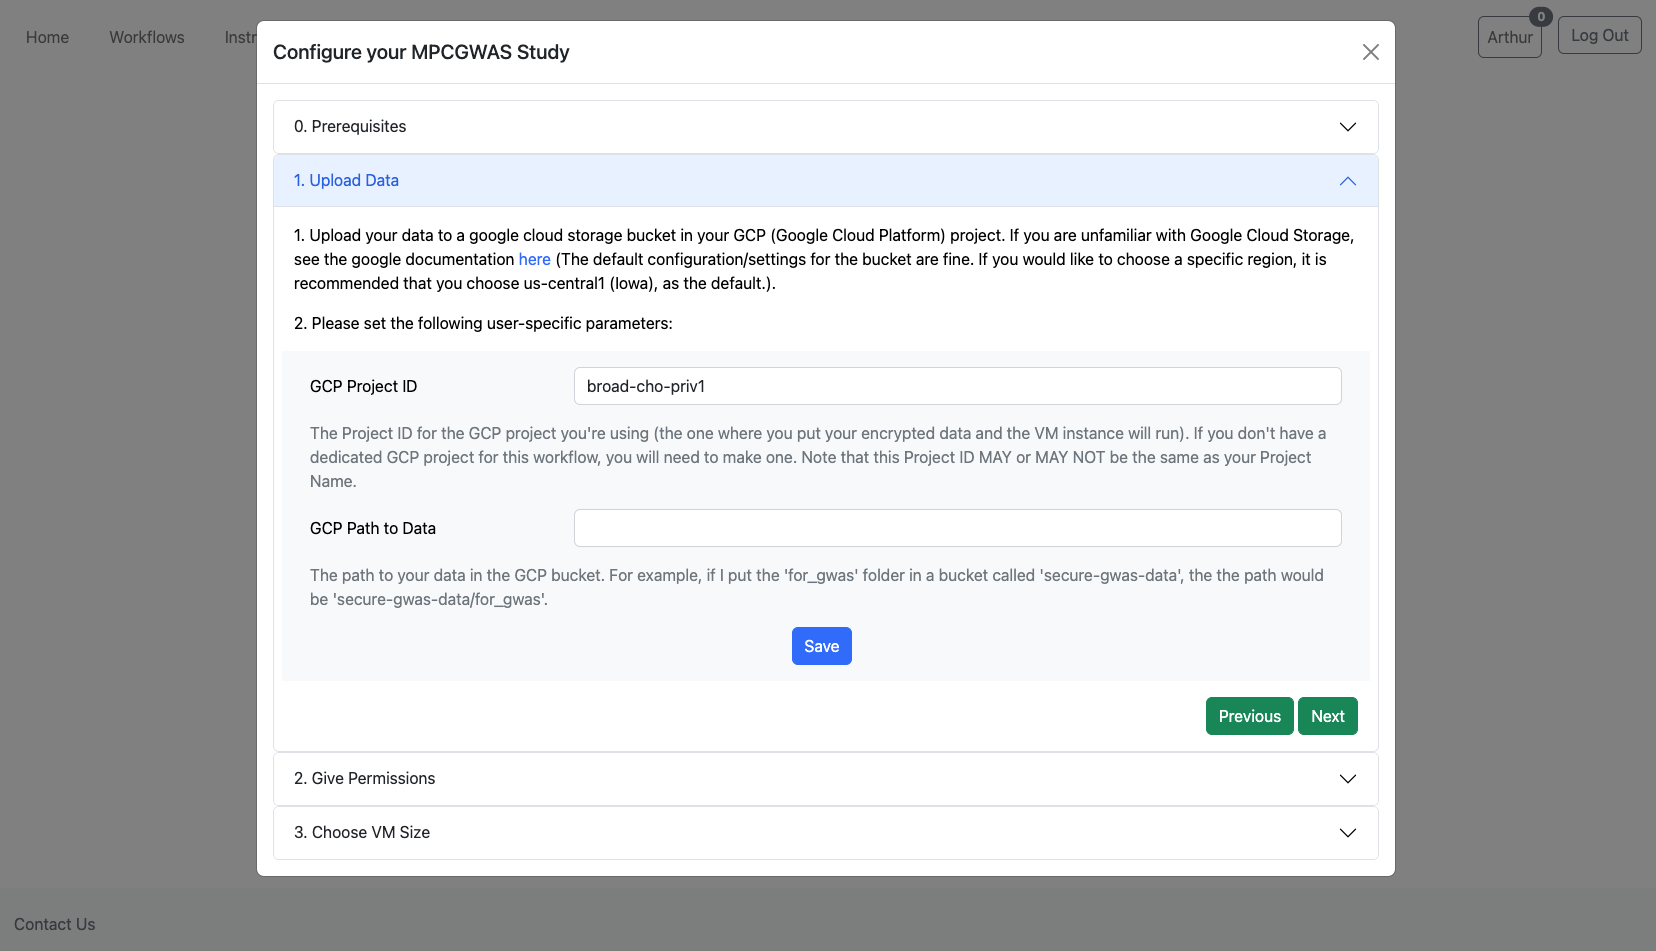
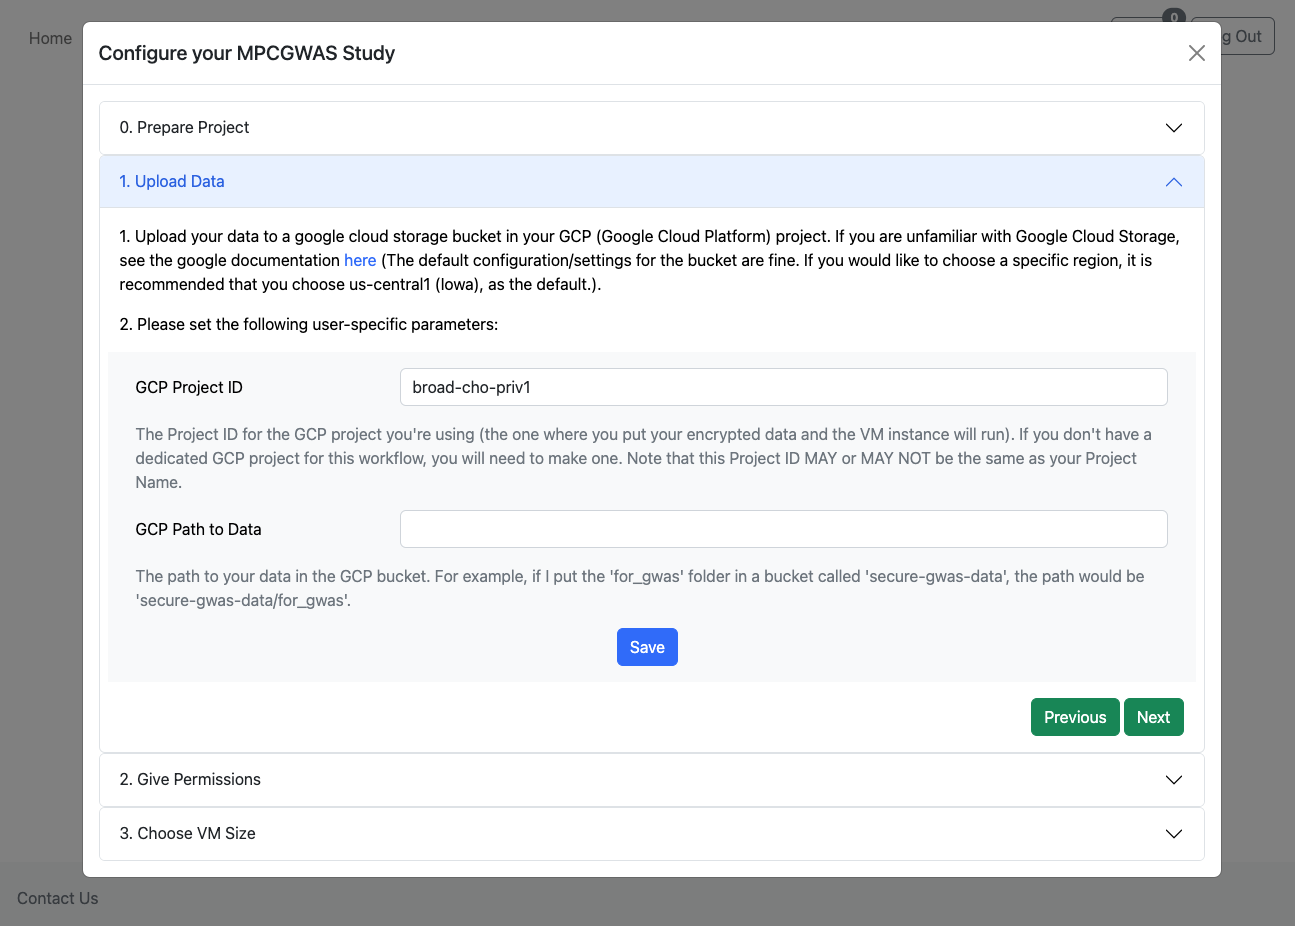
update tutorial images

Changed region(s): [[0.0309, 0.0, 0.9884, 0.9676], [0.0, 0.9676, 0.0618, 0.9978]]

diff --git a/src/templates/general/tutorial.html b/src/templates/general/tutorial.html
@@ -81,7 +81,7 @@
       </div>
       <div class="row my-2">
         <div class="text-center">
-          <img class="img-fluid w-75" src="static/images/tutorial/prerequisites.png" alt="Image failed to load">
+          <img class="img-fluid w-75" src="static/images/tutorial/prepare_project.png" alt="Image failed to load">
         </div>
       </div>
       <div class="row">

diff --git a/src/templates/studies/study/configure_study.html b/src/templates/studies/study/configure_study.html
@@ -34,7 +34,7 @@
 <div class="accordion" id="accordion">
 
   {% set i = namespace(value = 0) %}
-  {% call instruction_step(i.value, "Prerequisites", collapsed = "", show = "show") %}
+  {% call instruction_step(i.value, "Prepare Project", collapsed = "", show = "show") %}
   <div>
     {% set i.value = i.value + 1 %}
     {% if study_type == "MPCGWAS" %}
